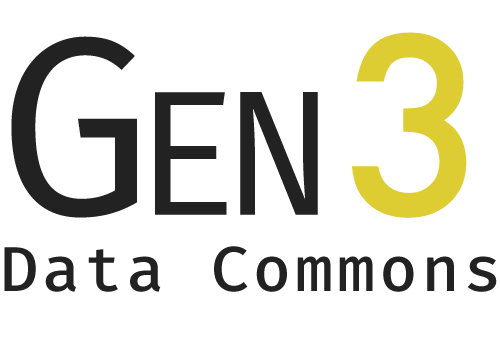
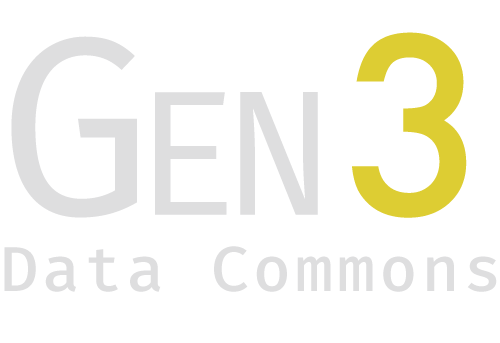
chore(css): White link for nav home chore(css): Background image in nav bar

diff --git a/docs/css/extra.css b/docs/css/extra.css
@@ -9,10 +9,31 @@ a:hover   { color: #6B654B }  /* user hovers     */
 a:active  { color: #6A3937 }  /* active links    */
 
 
+.wy-side-nav-search:before{
+    width: 300px;
+    content: " ";
+    background-image: url(/img/Gen3.png);
+    background-position: center center;
+    background-size: 50% 100%;
+    background-repeat: no-repeat;
+    height: 100px;
+    padding-bottom: 10px;
+    position: absolute;
+    top: 0;
+    left: 0;
+}
+
 .wy-side-nav-search {
+margin-top: 90px;
 background: #39304A;
 color: #DDCD33;
 }
+
+.wy-side-nav-search a:link    { color: #ffffff }  /* unvisited links */
+.wy-side-nav-search a:visited    { color: #ffffff }  /* unvisited links */
+.wy-side-nav-search a:hover    { color: #ffffff }  /* unvisited links */
+.wy-side-nav-search a:active    { color: #ffffff }  /* unvisited links */
+
 .wy-nav-side {
 background: #39304A;
 }
